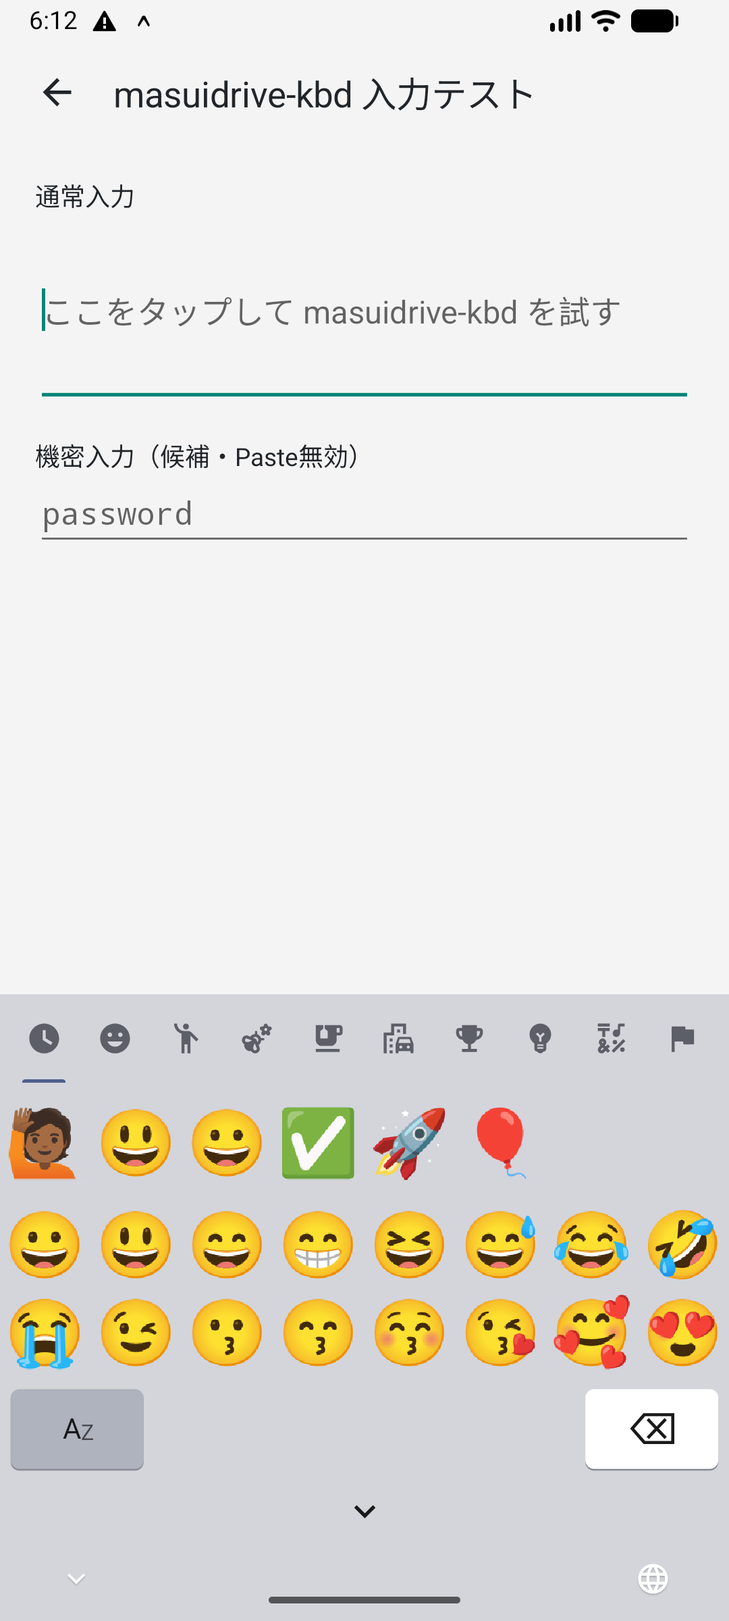
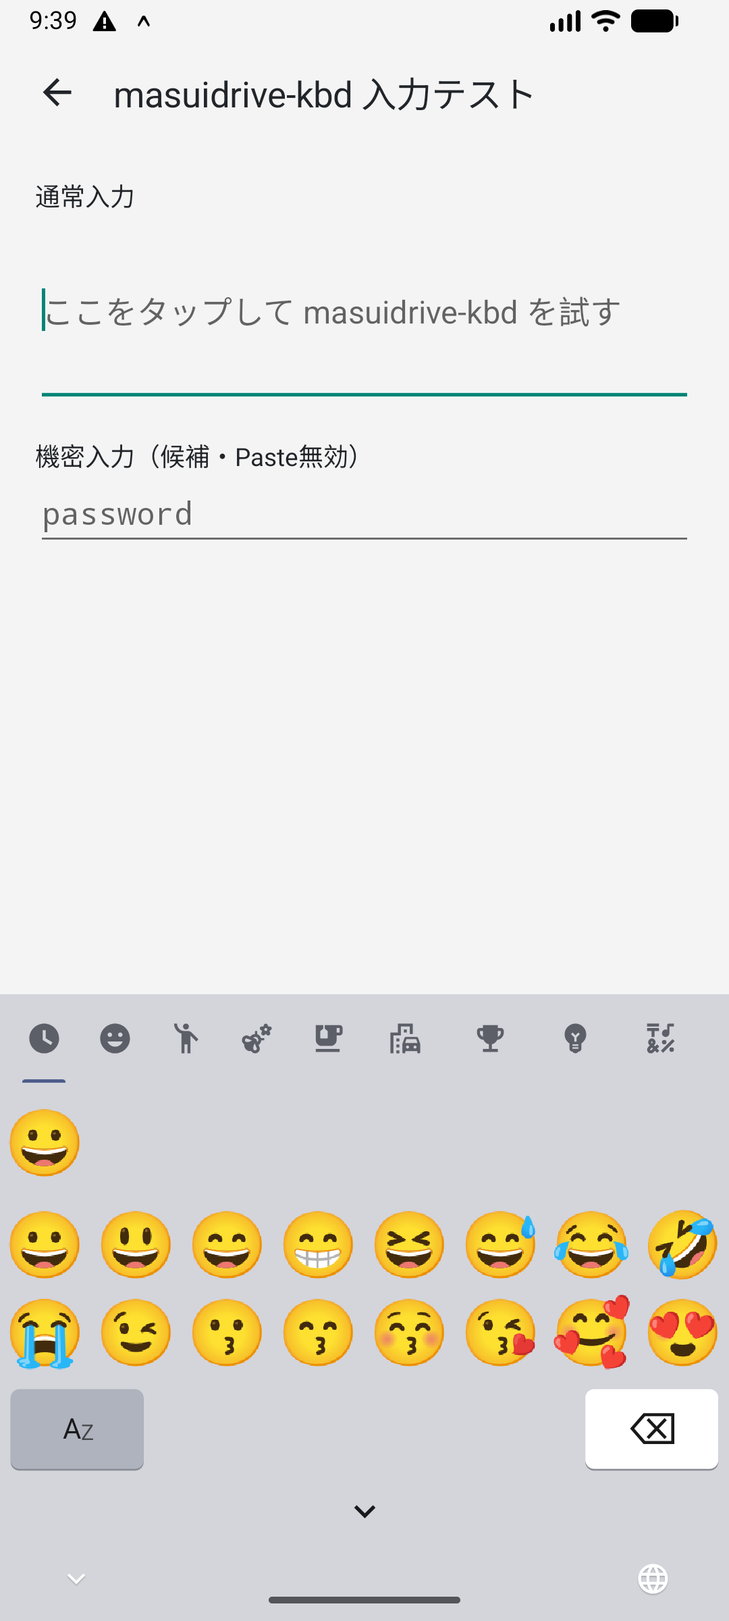
[260912-080017-show-emoji-recents-and-expand-catalog] docs(review): record final verification

diff --git a/tickets/260912-080017-show-emoji-recents-and-expand-catalog/note.md b/tickets/260912-080017-show-emoji-recents-and-expand-catalog/note.md
@@ -1,6 +1,6 @@
 # Work Notes: 260912-080017-show-emoji-recents-and-expand-catalog
 
-## Status: PDH-ticket-review
+## Status: PDH-human-review
 
 ## Checklist
 <!-- stage を移るたびにこの節を見る。節を stage ごとに割らない —
@@ -11,18 +11,18 @@
      未了の一覧は `./ticket.sh check`。 -->
 - [x] PDH-ticket-review: Why が product-brief.md に接続し、AC が観察可能で、ユーザ承認済み
 - [x] PDH-ticket-review: Design Decisions / Out-of-scope / Dependencies / Architectural Invariants check が確認済み
-- [ ] PDH-implement: 実装が依存する «確かめていない仮定» を書く前に列挙し、測れるものは測った
-- [ ] PDH-implement: implementor が論理単位ごとに commit し、mega-commit にしていない
-- [ ] PDH-implement: `scripts/test-all.sh` 全スイートパス確認済み
-- [ ] PDH-implement: 外部 provider 経由 path は実 API 200 確認済み (deferred の場合は明示記録)
-- [ ] PDH-implement: ticket の AC / Architectural Invariants / out-of-scope が implementor によって書き換えられていない
-- [ ] PDH-review: 確定判断が 1 件ずつ実装に落ちている（対応する実体を名指しできない判断は未実装）
-- [ ] PDH-review: 指摘を直すとき、壊していない側の入力を 1 つ選んで前後の出力を記録した
-- [ ] PDH-review: Directorが採用したCritical/Majorが解消し、非採用findingの分類根拠を記録
-- [ ] PDH-verify: AC 裏取り Agent が各 AC の実質達成を verify 済み
-- [ ] PDH-verify: Surface Observer 観察済み (純 backend ticket では skip 可、判断を 1 行記録)
-- [ ] PDH-verify: ドキュメント更新の要否を確認済み（必要なら `.agents/skills/pdh-update/SKILL.md` or `.claude/skills/pdh-update/SKILL.md`）
-- [ ] PDH-verify: technical-reference.md 突合済み（下の「Technical reference 更新」欄に記録）
+- [x] PDH-implement: 実装が依存する «確かめていない仮定» を書く前に列挙し、測れるものは測った
+- [x] PDH-implement: implementor が論理単位ごとに commit し、mega-commit にしていない
+- [x] PDH-implement: `scripts/test-all.sh` 全スイートパス確認済み
+- [-] PDH-implement: 外部 provider 経由 path は実 API 200 確認済み (deferred の場合は明示記録) - skip: AndroidX Emoji Pickerと端末内SharedPreferencesだけを使い、外部provider/API経路がない
+- [x] PDH-implement: ticket の AC / Architectural Invariants / out-of-scope が implementor によって書き換えられていない
+- [x] PDH-review: 確定判断が 1 件ずつ実装に落ちている（対応する実体を名指しできない判断は未実装）
+- [x] PDH-review: 指摘を直すとき、壊していない側の入力を 1 つ選んで前後の出力を記録した
+- [x] PDH-review: Directorが採用したCritical/Majorが解消し、非採用findingの分類根拠を記録
+- [x] PDH-verify: AC 裏取り Agent が各 AC の実質達成を verify 済み
+- [x] PDH-verify: Surface Observer 観察済み (純 backend ticket では skip 可、判断を 1 行記録)
+- [x] PDH-verify: ドキュメント更新の要否を確認済み（必要なら `.agents/skills/pdh-update/SKILL.md` or `.claude/skills/pdh-update/SKILL.md`）
+- [x] PDH-verify: technical-reference.md 突合済み（下の「Technical reference 更新」欄に記録）
 - [ ] PDH-human-review: ユーザに差分・検証結果・確認手順を提示し、人間レビューを依頼済み
 - [ ] PDH-human-review: ユーザが確認手順を実施し、クローズを明示承認した
 
@@ -65,7 +65,12 @@
 
 | # | 観点 | Sev | 要旨 | 判定 | 理由 |
 |---|---|---|---|---|---|
-|   |      |     |      |      |      |
+| 1 | privacy | Major | 通常Recentのproviderをprivate pickerへ差し替えると、非同期refresh中に履歴が一時表示され得る | 採用・修正 | picker instanceをpublic/privateで分離し、private providerは常に空にした |
+| 2 | geometry | Major | カテゴリ切替直後の古い行高で確定すると4行目の上端が見える | 採用・修正 | 選択categoryの新しい行attachを待ち、preset物理高とclip/maskを分離した |
+| 3 | Recent | Major | AndroidXのdirty更新が非同期commitより先に消費されると成功後のRecent表示が古い | 採用・修正 | public commitと保存成功後だけproviderを再設定してadapterをrefreshした |
+| 4 | final review | - | `4be7208`の成功/private/stale guard、Recent adapter、mask、固定高を再確認 | 解消 | Critical 0 / Major 0 / Minor 0 |
+
+指摘修正の反例として、private→public復帰時の保存済み履歴、commit失敗、古いeditor token、空Recent、Faces/People切替、Small/Standard/Largeを各修正前後で維持した。`640f9fb`では該当service testが約121秒だった状態から13秒、`4be7208`後は10秒で完了し、Recent provider内容も`[❤]`へ更新されることをtestで固定した。
 
 ## Technical reference 更新
 <!-- この ticket の差分に因果がある追記・上書きの内容、または「該当なし」＋理由を 1 行以上必ず書く。
@@ -87,3 +92,25 @@
 
 ## Resume Point
 <!-- 中断時の最終 commit・理由・再開手順を記録する（pdh-coding「中断手順」に従う）。 -->
+実装前に、AndroidX 1.6.0のheader/list構造、Recent providerの保存順序、カテゴリ切替時のRecyclerView配置時機、private欄でproviderを差し替えた場合の非同期漏洩、画面幅・高さpreset変更時の再計測を仮定として列挙した。AAR bytecodeとAPI 36実画面を測り、通常用とprivate用pickerを分離した。
+
+`d36a5fe`でAndroidX picker、最大24件Recent、候補face 38dp、native/mockを導入した。`19854c9`でprivate専用pickerへ分離し、`6b9926e`以降で幅・preset・category変更時のgeometryを実測値へ追従させた。カテゴリのRecyclerViewはheader選択より後で行をattach/recycleするため、stale callbackと選択categoryを識別し、picker本体はpresetの物理高へ固定、見える末尾だけclip/maskする構成へ収束した。`8c6053d`で空Recentを実際にattachされた履歴なし表示と後続2行の下端へ切った。
+
+`640f9fb`で不要なparent requestLayoutと同値mask更新を除いた。reviewで、AndroidXの選択順がlistener→provider記録→dirty設定であり、非同期commit中にdirtyを消費できることを検出した。`4be7208`でcurrent editorかつpublicのcommit成功とPreferences保存後だけpublic picker providerを明示更新し、表示中Recentの即時並替えを固定した。変更は`96b60be..4be7208`の論理commitへ分割した。
+
+重複検出はKotlin/HTMLを対象に使える同梱`similarity-generic`が環境に無いためskipし、既存helperとlayout patternを`rg`で照合した。最終`./scripts/test-all.sh --parallel` summaryは以下。
+
+```text
+========================================
+  Summary
+========================================
+  PASS: fast-checks
+  PASS: android unit, lint, apk
+
+Passed: 2 / 2
+```
+`technical-reference.md`の決定17へ、AndroidX pickerの50dpカテゴリheader、8列3行、最大24件Recent、private provider、成功確定時だけ保存する現仕様を反映済み。決定18へ、絵文字時のoverlayとpreset固定高、入力先切替時の再適用を反映済み。
+AndroidX Emoji Picker 1.6.0はカテゴリtap後にRecyclerViewの行を非同期でattach/recycleするため、header選択直後の旧行高を新categoryの確定値として使えない。`setRecentEmojiProvider`はpicker bodyを再生成せずRecent adapterをrefreshするが、絵文字選択callbackより後にAndroidX自身のprovider記録とdirty設定が走る。アプリ側の非同期commit成功後に明示refreshする必要がある。
+API 36 arm64 emulator（1080x2400、420dpi、Light）で、空Recent、Facesから😀確定直後のRecent先頭反映、privateの空Recentとpublic復元、カテゴリ連打、Small/Standard/Large、設定と入力テストの10表示を確認した。StandardはIME top 1472、QWERTY first key top 1624、4行bottom 2173、hide bar top 2178、nav pill 2364で10表示とも不変。SmallはIME top 1524/control top 2070、Largeは1419/2044。各presetで下端cut/sliverなし。最終画像は`site/assets/emoji-categories-api36-v0.13.png`。
+
+物理Fold端末は未接続のため、最終human reviewでは公開APKをFoldの外画面・内画面で開き、絵文字レイヤーの3行高とアプリ切替直後の高さを確認する。

diff --git a/tickets/260912-122938-keep-voice-listening-until-cancel/note.md b/tickets/260912-122938-keep-voice-listening-until-cancel/note.md
@@ -1,0 +1,88 @@
+# Work Notes: 260912-122938-keep-voice-listening-until-cancel
+
+## Status: PDH-ticket-review
+
+## Checklist
+<!-- stage を移るたびにこの節を見る。節を stage ごとに割らない —
+     割ると「その stage の分だけ」を見て、他が残っていることに気づかない。
+     ユーザに頼まれたことと、作業中に見つけた «あとでやる» もここへ足す
+     （着手より先に書く。規則は PDH-AGENTS.md「Execution Model」）。
+     当てはまらない項目は `- [-] ... - skip: <理由>` と書いて理由を残す（理由なしの `- [-]` は未了扱い）。
+     未了の一覧は `./ticket.sh check`。 -->
+- [x] PDH-ticket-review: Why が product-brief.md に接続し、AC が観察可能で、ユーザ承認済み
+- [x] PDH-ticket-review: Design Decisions / Out-of-scope / Dependencies / Architectural Invariants check が確認済み
+- [ ] PDH-implement: 実装が依存する «確かめていない仮定» を書く前に列挙し、測れるものは測った
+- [ ] PDH-implement: implementor が論理単位ごとに commit し、mega-commit にしていない
+- [ ] PDH-implement: `scripts/test-all.sh` 全スイートパス確認済み
+- [ ] PDH-implement: 外部 provider 経由 path は実 API 200 確認済み (deferred の場合は明示記録)
+- [ ] PDH-implement: ticket の AC / Architectural Invariants / out-of-scope が implementor によって書き換えられていない
+- [ ] PDH-review: 確定判断が 1 件ずつ実装に落ちている（対応する実体を名指しできない判断は未実装）
+- [ ] PDH-review: 指摘を直すとき、壊していない側の入力を 1 つ選んで前後の出力を記録した
+- [ ] PDH-review: Directorが採用したCritical/Majorが解消し、非採用findingの分類根拠を記録
+- [ ] PDH-verify: AC 裏取り Agent が各 AC の実質達成を verify 済み
+- [ ] PDH-verify: Surface Observer 観察済み (純 backend ticket では skip 可、判断を 1 行記録)
+- [ ] PDH-verify: ドキュメント更新の要否を確認済み（必要なら `.agents/skills/pdh-update/SKILL.md` or `.claude/skills/pdh-update/SKILL.md`）
+- [ ] PDH-verify: technical-reference.md 突合済み（下の「Technical reference 更新」欄に記録）
+- [ ] PDH-human-review: ユーザに差分・検証結果・確認手順を提示し、人間レビューを依頼済み
+- [ ] PDH-human-review: ユーザが確認手順を実施し、クローズを明示承認した
+
+## PDH-ticket-review. Ticket contract check
+<!-- 実装前に ticket の契約を確認する。
+     Why が product-brief.md に接続しているか、AC が観察可能か、
+     Design Decisions / Out-of-scope / Dependencies が実装 agent に十分か、
+     Architectural Invariants と矛盾しないか、ユーザ承認が必要な未確定判断が残っていないかを記録する。 -->
+
+## Required Probes
+<!-- AC ごとに「達成できると確かめたか」を判定し、確かめていなければ確かめる手段をここへ書く。
+     PDH-ticket-human-review の前に実行して結果を書く。
+     実行できないもの（実装しないと分からないこと）は、AC に結果を書かず
+     「測って記録する＋この値を下回ったら止めて報告する」の形にする。
+     この節は close の必須グループ（`require_checklist_groups`）なので、消すと close が止まる。
+     途中で要求するときは `./ticket.sh check --require "Required Probes"`。 -->
+- [x] 測る対象を洗い出し、書き手が測れるものは測って結果をここへ書いた（測る対象が無いなら `- [-] ... - skip: <理由>`）
+
+実装後に、キャンセル横の表示、候補1回確定、次recognizer開始、2回連続確定、キャンセル・editor切替・別レイヤー切替後の旧結果破棄、固定4行高、native/mockの対応を測る。API 36 emulatorに日本語端末内モデルが無いため、controller/service結合testで実callback系列を再現し、nativeでは非対応時にも4行高とキャンセル横表示が崩れないことを観察する。実発話は対応実機でのhuman review項目として残す。
+
+## PDH-implement. 実装ログ
+<!-- 1 agent が investigate + implement + tests を 1 session で完遂する。
+     実コードを読みながら直接実装し、設計判断 / scope 拡張・縮小の判断 / 実コードで発見した事実をここに append する。
+     論理単位ごとの commit hash 一覧も記録する (mega-commit 禁止。commit 数は gate ではない)。 -->
+
+## PDH-review. 品質検証結果
+<!-- PDH-review-1 / PDH-review-2 のように attempt ごとに記録する。
+     独立 reviewer（1 人以上。構成と model は CLAUDE.md「チーム構成・モデル設定」）の
+     実装後 review 結果を統合。
+     2 attempt 同種 Critical 再発で root cause 診断 → escalation。
+     実装後 review 特有 gate: Ticket 不可侵 / logical commit cadence / E2E real API / テスト全件 PASS -->
+
+### Findings (PDH-review-1)
+<!-- 記録・分類・提示の運用は pdh-dev `_review.md`
+     「スコープ外問題と過剰実装の扱い」に従う。 -->
+
+| # | 観点 | Sev | 要旨 | 判定 | 理由 |
+|---|---|---|---|---|---|
+|   |      |     |      |      |      |
+
+## Technical reference 更新
+<!-- この ticket の差分に因果がある追記・上書きの内容、または「該当なし」＋理由を 1 行以上必ず書く。
+     他 ticket 由来の記述を消したくなったら、消さずにここへ削除候補として記録する。 -->
+
+## PDH-human-review. 人間レビュー
+<!-- agent は PDH-verify まで自動で進め、この stage で人間レビューを依頼する。
+     ユーザの明示承認なしに PDH-close へ進まない。
+     途中で疑問・判断不能・blocker・完了見込みなしが出た場合は、この stage まで待たずユーザに確認する。 -->
+
+## Discoveries
+<!-- 実装中に発見した想定外の事実を記録する。
+     例: API の未文書化の挙動、ライブラリの制約、既存コードの隠れた依存関係。
+     Implementation で対応した場合は実装ログに合わせて、ticket に書き戻しが必要な場合は PM に flag する。 -->
+
+## Open Questions
+<!-- 実装中の可逆な迷いと採用した default 値を検出時点で append する
+     （運用は pdh-coding「Open Questions protocol」に従う）。 -->
+
+## Resume Point
+<!-- 中断時の最終 commit・理由・再開手順を記録する（pdh-coding「中断手順」に従う）。 -->
+現行は音声候補をタップすると`confirm`後に元レイヤーへ戻る。ユーザはキャンセルまで音声レイヤーを維持し、候補確定後すぐ次の認識を始めること、キャンセルの横へ認識中表示を置くことを明示した。既存のeditor tokenとrecognizer generationで、別入力欄への誤確定と旧callbackを拒否できる。固定4行、端末内認識、private欄の禁止、別レイヤーへのフリックは維持するため、未確定のproduct判断はない。
+
+独立AC読み手は、停止条件と「キャンセルまで」の矛盾、エラー時の認識中誤表示、「すぐ」の観察不能を指摘した。通常session中とerror状態を分け、候補確定後に旧候補が消えて新recognizer状態へ戻ること、2周の連続入力、private・editor・IME・layer境界で旧callbackと候補tapが入力も再開始もしないこと、412/840dpの固定4行とtouch targetをACへ明記した。更新後はユーザ指示を変えず観察可能にしたためticket-human-review承認として扱う。

diff --git a/tickets/260912-122938-keep-voice-listening-until-cancel/ticket.md b/tickets/260912-122938-keep-voice-listening-until-cancel/ticket.md
@@ -1,0 +1,83 @@
+---
+priority: 2
+base_branch: features/260912-080017-show-emoji-recents-and-expand-catalog
+description: "Keep voice recognition active until cancel"
+created_at: "2026-09-12T12:29:38Z"
+started_at: null  # Do not modify manually
+closed_at: null   # Do not modify manually
+canceled_at: null # Do not modify manually
+---
+
+## 260912-122938-keep-voice-listening-until-cancel
+
+### Why
+候補を1件選ぶたびに音声レイヤーが閉じるため、続けて話すには毎回レイヤーを開き直す必要がある。
+音声レイヤーが待機中か分かりにくいため、キャンセルまで連続して音声入力できる状態を明示する。
+<!-- ユーザ価値・解きたい問題を 1〜3 行で書く。
+     Product Brief の Problem / Solution のどの部分を担うか明記する。 -->
+
+### What / Acceptance Criteria
+<!-- 完了を判定できる条件。プロダクトの観察可能な振る舞いだけを書く。
+     読み手はこの ticket を承認する人であり、実装する agent ではない。
+
+     箇条書きを書き始める前に、この節の冒頭へ 1 文を書く:
+       「この ticket が終わると、〈誰〉が、いままでできなかった〈何〉をできるようになる」
+     各 AC はその 1 文の分割として書く。非退行の AC だけは例外で、〈誰〉のみ必須。
+     読めているかの判定は pdh-dev skill の「AC に書いてよいもの / 書いてはいけないもの」に従う。
+
+     例: 「新しく登録したユーザが、一覧の画面に出る」
+     例: 「画面幅 375px 以下でメニューがハンバーガーに切り替わる」
+
+     プロセス要件 (レビュー済み、テストパス等) はここには書かない。
+     ワークフロー (SKILL.md) と作業ノート (note) が保証する。
+
+     runtime で UX/Security invariant を強制する ticket では、AC に「runtime enforce の
+     保証メカニズム」を 1 行明記する (例: editor 警告だけでなく 422 reject されること)。 -->
+このticketが終わると、利用者が音声レイヤーで認識状態を確認しながら、キャンセルするまで候補選択と次の認識を繰り返せる。
+
+- [ ] AC 1: 連続音声入力session中（録音・認識処理・最終結果の候補選択待ち・次回認識開始中）は、最下段左のキャンセルキー右隣に「認識中」と分かる表示が出る。権限未許可・モデルなし・認識不能では既存の状態・エラー表示を出し、認識中とは表示しない。
+- [ ] AC 2: 最終結果として表示された候補のいずれかをタップすると現在の入力欄へ1回だけ確定し、旧候補を消して音声レイヤーのまま次の認識状態へ戻る。追加操作なしの次発話が新しい候補として表示される。
+- [ ] AC 3: 対応環境の通常フローでは候補選択と次の認識を2回以上繰り返せる。キャンセルをタップすると認識・候補を破棄して進入前の文字レイヤーへ戻り、その後の旧callbackを表示・確定しない。
+- [ ] AC 4: private欄では音声入力を開始しない。通常欄からprivate欄・別editorへの切替、IME非表示、別layerへの切替時は停止し、切替前の途中結果・最終結果・候補tapは入力も次の認識も起こさない。認識error時は既存表示を出し自動再試行しない。
+- [ ] AC 5: 録音から候補、再開始までを2周してもAndroid nativeと公開操作mockの全体4行高と最下段touch targetが変わらず、412dp・840dpでキャンセル、状態表示、既存の上下右flickが欠けない。
+
+### Architectural Invariants check
+端末内認識だけを使い、録音音声・途中結果・確定候補を保存または外部送信しない。private入力欄では開始せず、editor sessionが変わった結果を破棄するためAI-1〜AI-4と矛盾しない。
+<!-- product-brief.md の Architectural Invariants と矛盾しないことを 1 行宣言する。
+     矛盾しない場合: 「Hub stateless / Process immutable と矛盾しない」等。
+     新規 Invariant を要求する場合: 実装を止めて Product Brief 更新から始める。 -->
+
+### Design Decisions
+<!-- 既知の設計判断と理由を箇条書きで明示。
+     例: - データ保存形式: data URI (Files API は将来 ticket、本 ticket では不要)
+     例: - 423 reject ではなく 422: validation error として扱う -->
+- 候補確定後は同じeditor session tokenで新しいrecognizer sessionを開始し、前sessionのcallbackはgenerationで破棄する。
+- 認識状態の表示は最下段のキャンセルキー右側を使い、既存4行高とキャンセル・上下右フリック操作を変えない。
+- 認識不能・権限未許可・モデルなしは現在のエラー表示を維持し、自動再試行しない。
+
+### Out-of-scope
+<!-- やらないこと (scope creep 防止)。
+     「ついでにやりそう」「次の ticket でやる」を明記する。 -->
+- 無音や一時エラー後の無限自動再試行、認識言語の切替、クラウド音声認識。
+- 音声候補の編集・結合、録音履歴、認識結果の学習。
+
+▼ 以下は該当する情報がある場合のみ ▼
+
+### Implementation Notes
+ユーザ指示: 「音声認識をしてる時にキャンセルボタンの横ぐらいで認識中ぐらいのことを出してほしい。候補選択してもすぐ次の音声認識に入ってほしい。キャンセルを押すまで」。
+<!-- ユーザの明示指示、またはユーザが会話で言及した事項のみ書く (関数名 / module 名レベルまで)。
+     設計判断は「Design Decisions」に書く。
+     Coding Engineer は Implementation Notes が空でも実装できる責務を持つ。
+     PM が自主的に実装詳細を書いてはならない (下流の自由度を奪う)。 -->
+
+### Dependencies
+`260912-080017-show-emoji-recents-and-expand-catalog`の固定高IMEをbaseとする。
+<!-- この ticket に着手するために完了が必要な他の ticket。
+     「参考情報」ではなく「ブロッカー」だけ書く。なければ省略。
+     ブロッカー = これが未完了だと実装・テストが物理的にできない依存。
+     例: 「DB migration の ticket が先に必要」「認証 API が存在しないと結合できない」
+     参考情報 (設計の参考にした ticket 等) は書かない。
+     coding agent は未完了の依存がある場合、着手せず報告する。 -->
+
+---
+Work notes: `note.md`

diff --git a/tickets/260912-080017-show-emoji-recents-and-expand-catalog/ticket.md b/tickets/260912-080017-show-emoji-recents-and-expand-catalog/ticket.md
@@ -35,14 +35,14 @@ canceled_at: null # Do not modify manually
      保証メカニズム」を 1 行明記する (例: editor 警告だけでなく 422 reject されること)。 -->
 このticketが終わると、利用者が絵文字レイヤー最上部のカテゴリ行からRecentや目的のカテゴリを選び、絵文字とvariationを入力できる。
 
-- [ ] AC 1: 絵文字レイヤーを開くと、通常の変換候補faceやメッセージの代わりに、候補欄と同じ最上部50dp領域へ横方向のカテゴリicon行が表示される。
-- [ ] AC 2: カテゴリicon行の先頭にRecentがあり、選ぶと端末内の最近使った絵文字が新しい順・重複なしで下の一覧へ最大24件表示される。
-- [ ] AC 3: 絵文字レイヤーは全体高を変えず、カテゴリ行の下に縦スクロールできる絵文字一覧3行、最下段に既存のレイヤー切替と削除を表示する。
-- [ ] AC 4: Recent以外のカテゴリをタップすると対応する一覧へ移動し、variationを持つ絵文字を長押しすると肌色・性別などの選択肢を選べる。
-- [ ] AC 5: 一覧またはvariationから絵文字をタップすると現在の入力欄へ1回だけ確定し、Recentの先頭へ反映される。Recentが空のときは履歴絵文字を表示しない。
-- [ ] AC 6: private入力欄ではRecentカテゴリへ履歴を表示せず、通常欄へ戻ると保存済み履歴を復元する。
-- [ ] AC 7: 候補faceを50dp候補欄内で34dpから38dpへ広げてtop10dp/bottom2dpとし、最上段keyとの10dp間隔、先頭左余白phone 6dp/wide 13dp、候補間5dp、候補内容が変わったときの横scroll先頭resetを維持する。
-- [ ] AC 8: Android nativeと公開操作mockで最上部50dpのカテゴリicon行、Recent内容、3行一覧、縦scroll、最下段操作が対応し、Light/Darkと412dp/840dp幅で欠けや横overflowがない。
+- [x] AC 1: 絵文字レイヤーを開くと、通常の変換候補faceやメッセージの代わりに、候補欄と同じ最上部50dp領域へ横方向のカテゴリicon行が表示される。
+- [x] AC 2: カテゴリicon行の先頭にRecentがあり、選ぶと端末内の最近使った絵文字が新しい順・重複なしで下の一覧へ最大24件表示される。
+- [x] AC 3: 絵文字レイヤーは全体高を変えず、カテゴリ行の下に縦スクロールできる絵文字一覧3行、最下段に既存のレイヤー切替と削除を表示する。
+- [x] AC 4: Recent以外のカテゴリをタップすると対応する一覧へ移動し、variationを持つ絵文字を長押しすると肌色・性別などの選択肢を選べる。
+- [x] AC 5: 一覧またはvariationから絵文字をタップすると現在の入力欄へ1回だけ確定し、Recentの先頭へ反映される。Recentが空のときは履歴絵文字を表示しない。
+- [x] AC 6: private入力欄ではRecentカテゴリへ履歴を表示せず、通常欄へ戻ると保存済み履歴を復元する。
+- [x] AC 7: 候補faceを50dp候補欄内で34dpから38dpへ広げてtop10dp/bottom2dpとし、最上段keyとの10dp間隔、先頭左余白phone 6dp/wide 13dp、候補間5dp、候補内容が変わったときの横scroll先頭resetを維持する。
+- [x] AC 8: Android nativeと公開操作mockで最上部50dpのカテゴリicon行、Recent内容、3行一覧、縦scroll、最下段操作が対応し、Light/Darkと412dp/840dp幅で欠けや横overflowがない。
 
 ### Architectural Invariants check
 絵文字pickerとrecentは端末内だけで動作し、公開mockもブラウザ内だけへ保存する。入力内容や履歴を外部へ送らず、private欄では履歴を表示しないためAI-1〜AI-4と矛盾しない。

diff --git a/progress.md b/progress.md
@@ -199,3 +199,9 @@
 [2026/09/12 17:54] AndroidX Emoji Picker 1.6.0を導入し、候補欄位置をRecent先頭のカテゴリicon行、下を3行scroll一覧、最下段をlayer切替・削除へ変更した。Recentを24件へ拡張し、mockもカテゴリ切替・縦scroll・入力反映へ対応した。
 [2026/09/12 17:54] reviewで通常Recentがprivate欄へ一時表示され得る非同期競合を検出したため、通常用とprivate用のpickerを分離した。Fold幅・高さpreset変更時のgrid再計測、背景色、非表示カテゴリ名のTalkBack除外も修正し、全test 2/2を通過した。
 [2026/09/12 18:16] 絵文字レイヤーの通常候補欄を完全に非表示にし、同じ50dp位置をRecentの履歴iconを先頭とするAndroidXカテゴリicon行へ置換した。API 36 Light実画面でカテゴリ名文字なし、一覧3行、部分的な4行目なし、固定control行を確認。操作mockもRecentをiconで示し、412px LightとTablet Darkで横overflowなし、全test 2/2 PASSを確認した。
+[2026/09/12 19:02] 絵文字レイヤーの候補欄をRecent先頭のカテゴリicon行へ置き換え、AndroidX pickerを一覧3行へ固定する最終調整を継続。正しい実画素座標ではカテゴリ切替は動作したが、切替直後に4行目上端が見えることを発見し、再計算処理を修正中。
+[2026/09/12 20:07] AndroidXのカテゴリ切替後、新しい絵文字行が配置される約6ms前に古い高さを固定していたことを診断logで特定した。新カテゴリの3行を実際に観測してから高さを確定する修正と、Recentへ戻る経路の再検証を開始した。
+[2026/09/12 21:06] 絵文字一覧の物理高を設定presetへ固定し、カテゴリ別の可視高はclipとmaskだけで制御するよう修正した。空Recentは履歴なし表示と後続2行の実測下端で切り、API 36 LightのSmall・Standard・Largeで初期Recent、Faces、People、Recent復帰、連続tap、最下段上端の誤入力なしを確認した。
+[2026/09/12 21:27] 絵文字確定後のpicker再構築と不要な親requestLayoutを除き、Recent更新をAndroidX既定のrefreshへ戻した。maskのlayout paramsも値が変わる場合だけ更新し、候補testは13秒、閉じるバーtestは5秒で完了した。最新commitを対象に独立review、実画面のRecent・private復帰・高さpreset・アプリ切替10回、全suiteの最終確認を開始した。
+[2026/09/12 21:40] AndroidXの実呼出順をAARで再確認し、成功したpublic確定と履歴保存の後だけRecent adapterを明示更新する競合修正を入れた。独立reviewはCritical 0・Major 0・Minor 0、全suiteは2/2 PASS。API 36でRecent即時反映、private非表示と復元、カテゴリ連打、Small・Standard・Large、設定と入力テストの10表示すべて高さ不変を確認した。
+[2026/09/12 21:40] 音声レイヤーでキャンセル横に認識状態を表示し、候補確定後に旧候補を消して次の認識を開始し、キャンセルまで繰り返すticket `260912-122938-keep-voice-listening-until-cancel` を作成した。private・editor切替・IME非表示・別layer・errorでは停止し、旧callbackから確定も再開始もしない契約を独立AC読み手が承認した。
